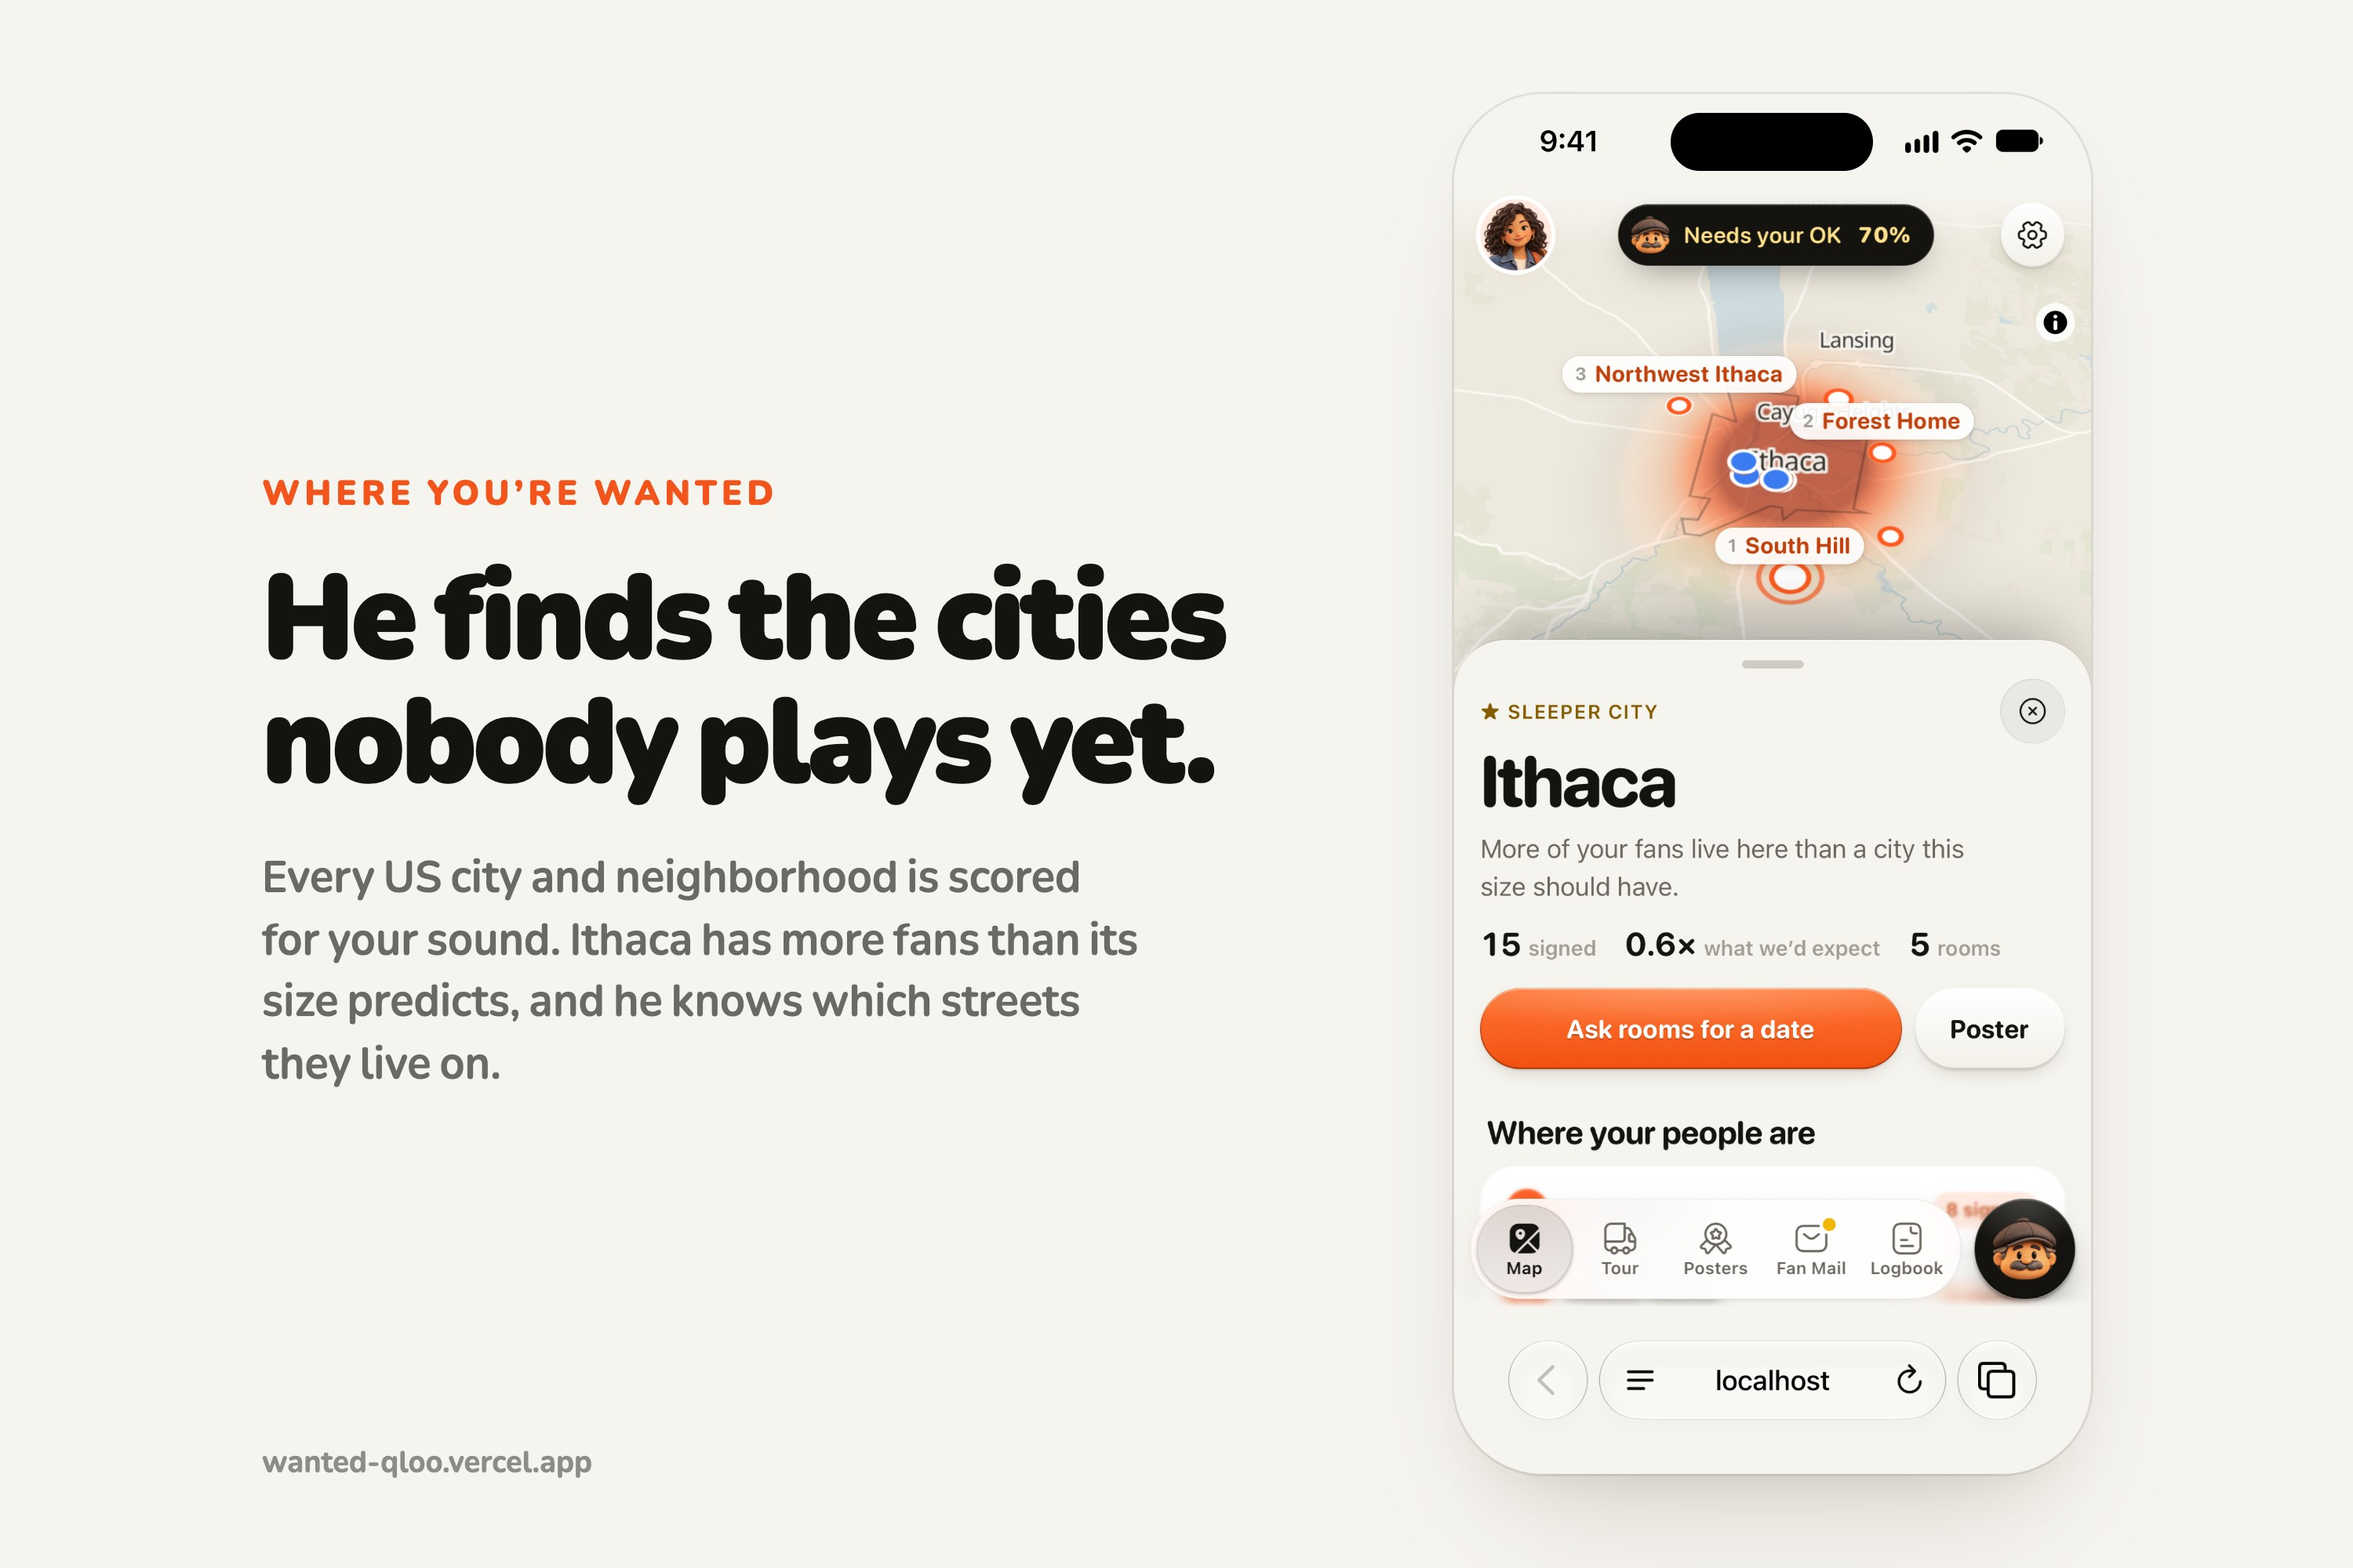
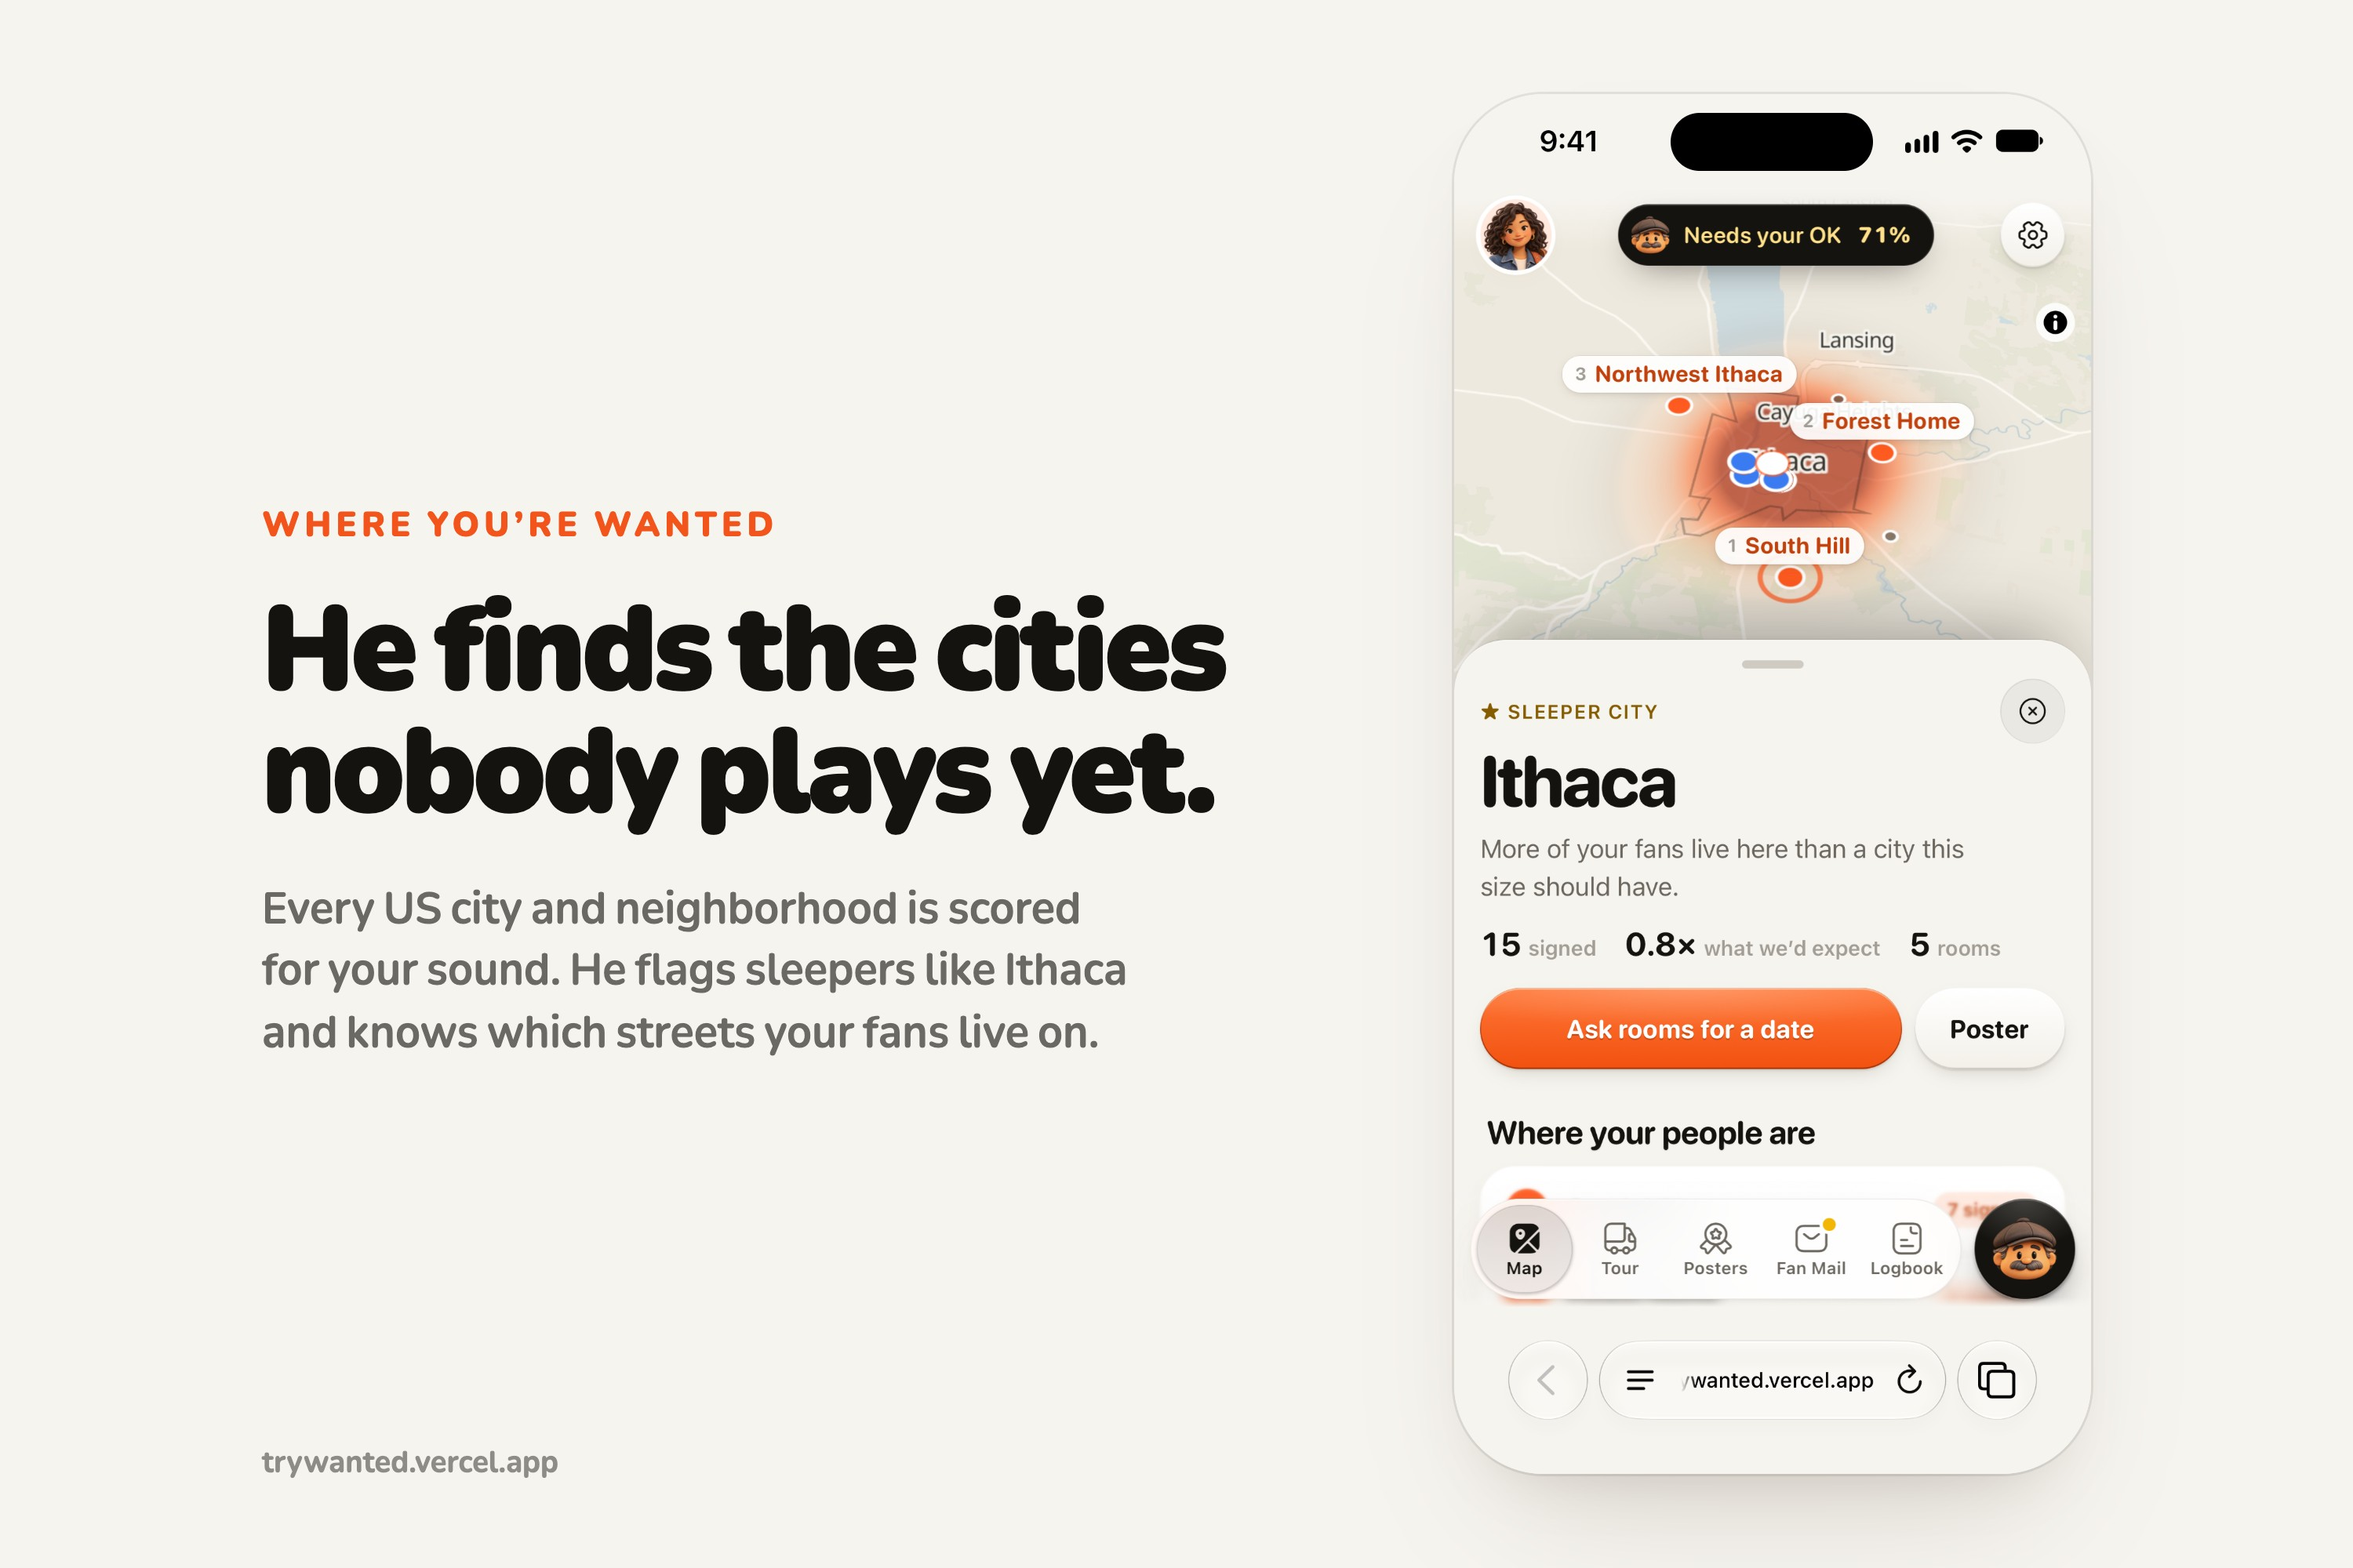
Gallery reshot on trywanted.vercel.app with production's numbers, plus four new cards: how Gus works, a plain chatbot against Gus on Qloo, the loop that pays the band, and a QR code for the live demo. A Claude card builds once claude.png is in the shots folder

diff --git a/scripts/smoke-prod.ts b/scripts/smoke-prod.ts
@@ -3,10 +3,10 @@
  * images links unfurl to, and the agent surfaces. Fails on a non-200, a slow answer, or a
  * demo act with nothing for Gus to show (no call, no offer, no held date), or the MCP connector down.
  *
- *   npm run smoke:prod                       # https://wanted-qloo.vercel.app
+ *   npm run smoke:prod                       # https://trywanted.vercel.app
  *   npm run smoke:prod -- http://localhost:3100
  */
-const base = (process.argv[2] ?? process.env.SMOKE_URL ?? 'https://wanted-qloo.vercel.app').replace(/\/$/, '');
+const base = (process.argv[2] ?? process.env.SMOKE_URL ?? 'https://trywanted.vercel.app').replace(/\/$/, '');
 const act = 'maya-ortiz';
 const city = 'burlington-vt';
 /** A city with a held date, read from the deals check; the booked story needs one. */

diff --git a/docs/DEVPOST.md b/docs/DEVPOST.md
@@ -74,9 +74,9 @@ qloo, typescript, next.js, react, expo, openrouter, libsql, turso, maplibre, dec
 
 ## Try it out
 
-- https://wanted-qloo.vercel.app/a/maya-ortiz?tour=1
+- https://trywanted.vercel.app/a/maya-ortiz?tour=1
 - https://github.com/wafflebytes/wanted
 
 ## Image gallery
 
-Upload [docs/gallery](gallery) in order: `0-cover.jpg` as the thumbnail, then cards 1 to 8. They're 3:2 and alternate light and dark. Each one is a real iPhone Safari screenshot from the iOS Simulator, shown without a device frame: just the screen and its rounded corners, sitting on the page's own colour so Safari's bars, the app and the card read as one surface (`node scripts/gallery-shots.mjs <dir>` for the screens, then `node scripts/gallery-cards.mjs <dir> docs/gallery`).
+Upload [docs/gallery](gallery) in order: `0-cover.jpg` as the thumbnail, then cards 1 to 12. They're 3:2 and alternate light and dark. Cards 0 to 7 are real iPhone Safari screenshots of trywanted.vercel.app from the iOS Simulator, shown without a device frame. Cards 8 to 10 explain how Gus works, why taste data matters and the loop that pays the band, drawn with the app's own art. Card 11 is Gus answering in Claude (drop `claude.png` into the shots folder to build it), and card 12 has a QR code for the live demo. Build with `node scripts/gallery-shots.mjs <dir>`, then `node scripts/gallery-cards.mjs <dir> docs/gallery`.
